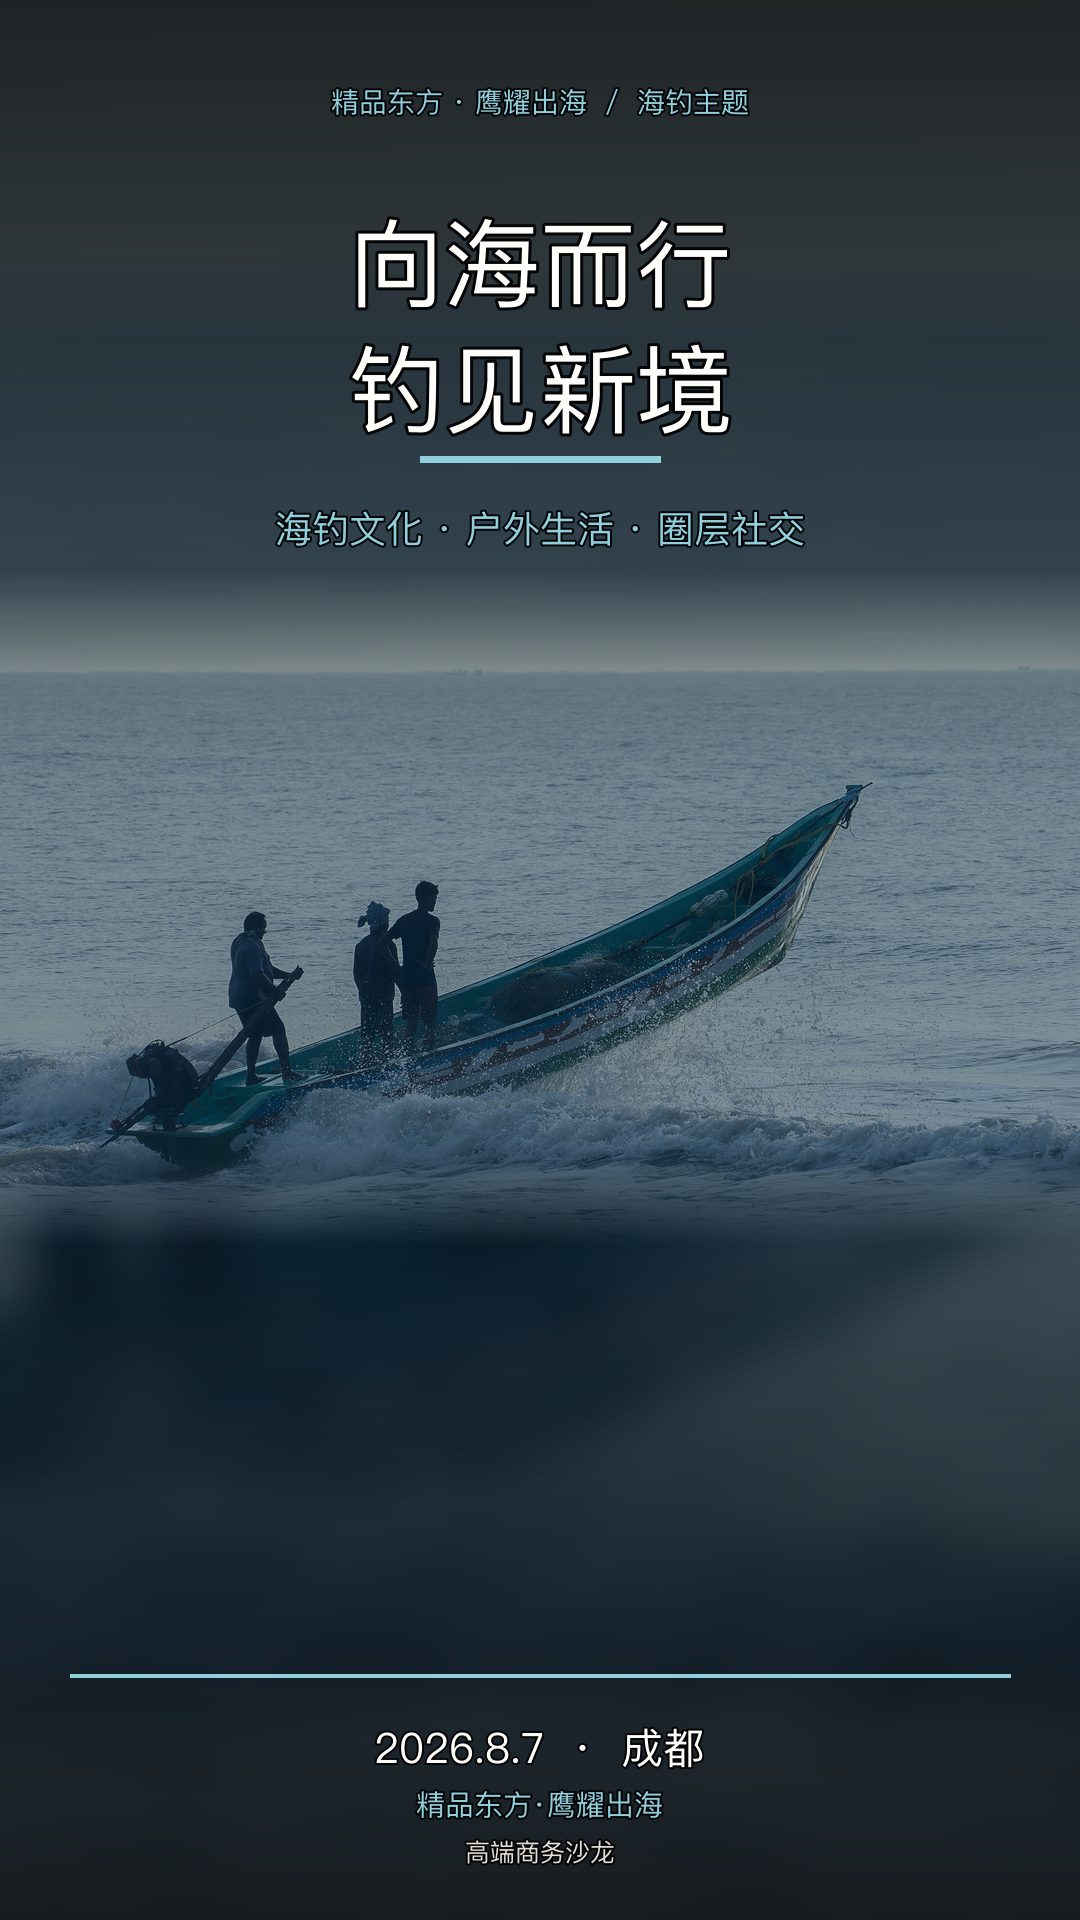
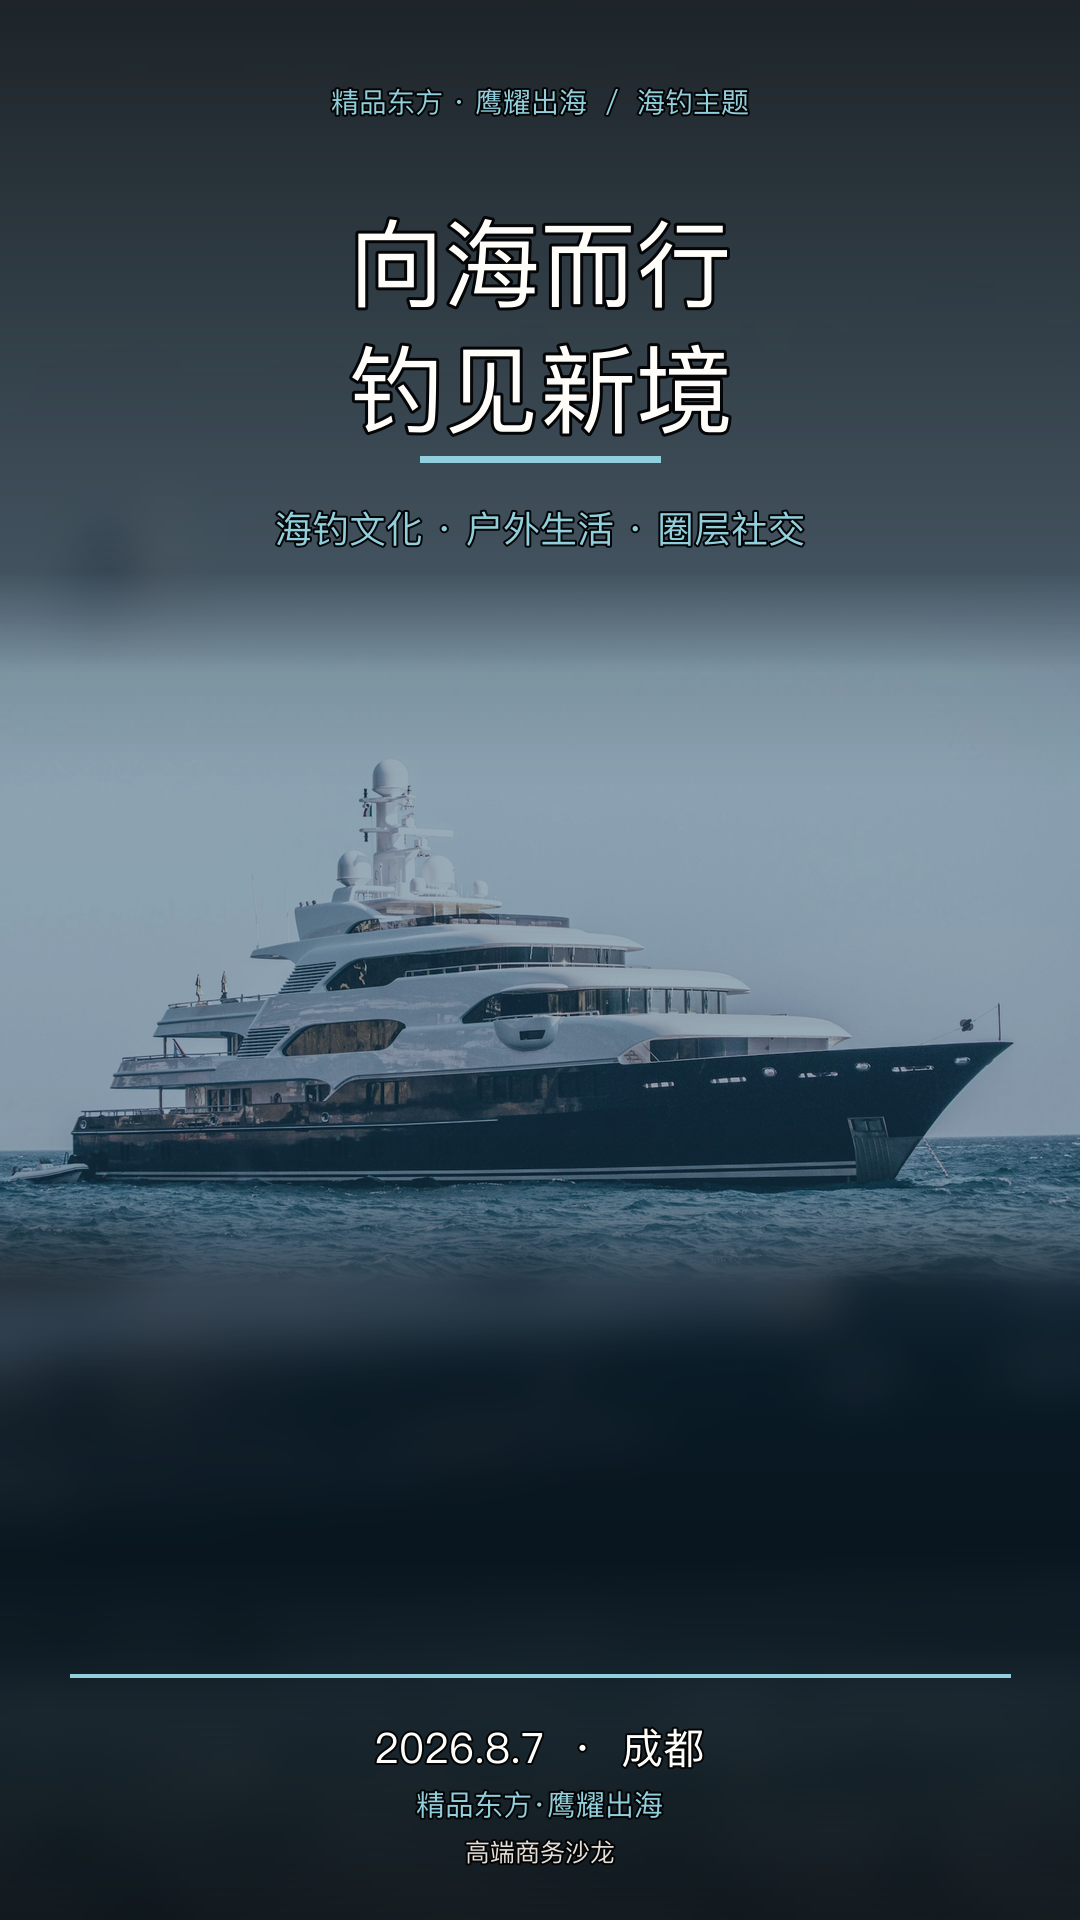
feat: upgrade sea-fishing poster yacht

diff --git a/scripts/generate-salon-poster.py b/scripts/generate-salon-poster.py
@@ -15,7 +15,7 @@ FALCON_SOURCE = ASSETS / "hero-falcon.jpg"
 REGISTRATION_SOURCE = ASSETS / "salon-expo.jpg"
 # Unsplash source: https://unsplash.com/photos/1470337458703-46ad1756a187
 MOUTAI_SOURCE = ASSETS / "poster-moutai-background.png"
-# Wikimedia Commons: https://commons.wikimedia.org/wiki/File:Fishing_Boat_Waves_Devaneri_Mahabalipuram_Sep22_A7C_02637.jpg
+# Unsplash source: https://unsplash.com/photos/1569263979104-865ab7cd8d13
 SEA_FISHING_SOURCE = ASSETS / "poster-sea-fishing-background.png"
 
 QR_OUTPUT = ASSETS / "salon-registration-qr.png"

diff --git a/docs/superpowers/plans/2026-07-22-luxury-yacht-poster.md b/docs/superpowers/plans/2026-07-22-luxury-yacht-poster.md
@@ -1,0 +1,26 @@
+# Luxury Yacht Poster Implementation Plan
+
+> **For agentic workers:** REQUIRED SUB-SKILL: Use superpowers:subagent-driven-development (recommended) or superpowers:executing-plans to implement this plan task-by-task. Steps use checkbox (`- [ ]`) syntax for tracking.
+
+**Goal:** Replace the sea-fishing poster's small boat with a full luxury yacht while preserving centered typography and the existing URL.
+
+**Architecture:** Replace only the source asset consumed by the existing feature-background compositor. Keep the centered theme layout and output filename unchanged.
+
+**Tech Stack:** Python 3, Pillow, zxing-cpp, Node.js tests.
+
+---
+
+### Task 1: Replace and Regenerate
+
+**Files:**
+- Modify: `public/falcon-expo-assets/poster-sea-fishing-background.png`
+- Modify: `public/falcon-expo-assets/salon-sea-fishing-theme-poster.png`
+- Modify: `scripts/generate-salon-poster.py`
+- Modify: `public/falcon-expo-assets/POSTER-CREDITS.md`
+
+- [ ] Import the selected Unsplash luxury-yacht image as the sea-fishing background.
+- [ ] Update source attribution and remove the previous boat credit.
+- [ ] Regenerate all posters and confirm only the sea-fishing poster visual changes.
+- [ ] Verify 1080×1920 RGB output, no barcode, centered text, and a visible complete yacht at 390×693.
+- [ ] Run `npm test`, `node --check server.js`, and `git diff --check`.
+- [ ] Commit, merge to `main`, push, and verify the Render file hash.

diff --git a/docs/superpowers/specs/2026-07-22-luxury-yacht-poster-design.md b/docs/superpowers/specs/2026-07-22-luxury-yacht-poster-design.md
@@ -1,0 +1,18 @@
+# 海钓豪华游艇海报设计
+
+## 目标
+
+仅更新海钓主题海报，将当前小型出海船替换为完整可见的多层豪华大型游艇，保持现有深海蓝配色与严格居中文字排版。
+
+## 方案
+
+- 使用无可读品牌标识的豪华大型游艇实景图。
+- 继续采用全幅模糊海景与中部清晰船体融合，避免竖版裁切损失船头或船尾。
+- 顶部系列名、两行口号、主题说明、底部日期、活动名和类型说明均保持画布中线对齐。
+- 不增加二维码，不修改海报文件名或线上链接。
+
+## 验收
+
+- 390×693 手机预览中可完整辨认豪华大型游艇。
+- 所有海钓海报文字水平居中。
+- 输出仍为 1080×1920 RGB PNG，且条码检测为空。

diff --git a/public/falcon-expo-assets/POSTER-CREDITS.md b/public/falcon-expo-assets/POSTER-CREDITS.md
@@ -1,4 +1,4 @@
 # Poster Image Credits
 
 - `poster-moutai-background.png`: Unsplash photo `1470337458703-46ad1756a187`, used under the Unsplash License.
-- `poster-sea-fishing-background.png`: "Fishing Boat Waves Devaneri Mahabalipuram Sep22 A7C 02637" by Timothy A. Gonsalves, licensed under [CC BY-SA 4.0](https://creativecommons.org/licenses/by-sa/4.0/). Source: <https://commons.wikimedia.org/wiki/File:Fishing_Boat_Waves_Devaneri_Mahabalipuram_Sep22_A7C_02637.jpg>.
+- `poster-sea-fishing-background.png`: Unsplash photo `1569263979104-865ab7cd8d13`, used under the Unsplash License.